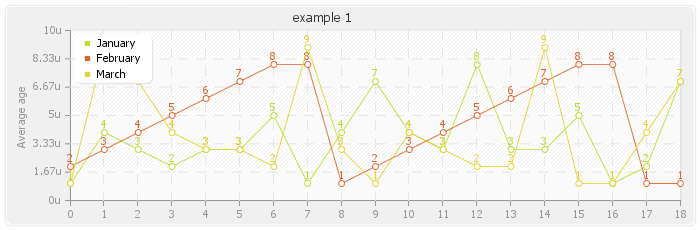
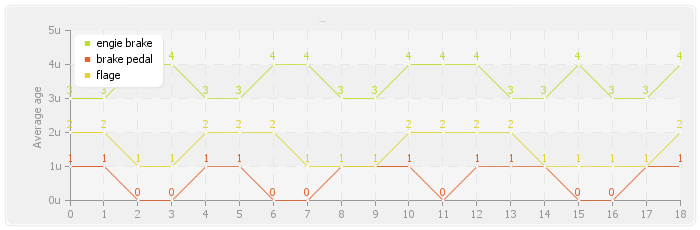
GD库学习

diff --git a/pchart/Example1.php b/pchart/Example1.php
@@ -8,42 +8,51 @@
  include("pChart/pChart.class.php");   
  // Dataset definition    数据填入
  $DataSet = new pData;   
- $DataSet->AddPoint(array(1,4,3,2,3,3,5,1,4,7,4,3,8,3,3,5,1,2,7),"Serie1");//自己传入数据
- $DataSet->AddPoint(array(2,3,4,5,6,7,8,8,1,2,3,4,5,6,7,8,8,1,1),"Serie2");
- $DataSet->AddPoint(array(1,9,7,4,3,3,2,9,3,1,4,3,2,2,9,1,1,4,7),"Serie3");
+ $DataSet->AddPoint(array(3,3,4,4,3,3,4,4,3,3,4,4,4,3,3,4,3,3,4),"Serie1");//自己传入数据
+ $DataSet->AddPoint(array(1,1,0,0,1,1,0,0,1,1,1,0,1,1,1,0,0,1,1),"Serie2");
+ $DataSet->AddPoint(array(2,2,1,1,2,2,2,1,1,1,2,2,2,2,1,1,1,1,2),"Serie3");
  //$DataSet->ImportFromCSV("Sample/bulkdata.csv",",",array(1,2,3),FALSE,0); //从csv导入数据
  $DataSet->AddAllSeries();   
  $DataSet->SetAbsciseLabelSerie();   
- $DataSet->SetSerieName("January","Serie1");   //设置图例
- $DataSet->SetSerieName("February","Serie2");   
- $DataSet->SetSerieName("March","Serie3");   
+ $DataSet->SetSerieName("engie brake","Serie1");   //设置图例
+ $DataSet->SetSerieName("brake pedal","Serie2");   
+ $DataSet->SetSerieName("flage","Serie3");   
  $DataSet->SetYAxisName("Average age"); 
  $DataSet->SetYAxisUnit("u");#设置单位
 
+
  // Initialise the graph   图片生成
  $Test = new pChart(700,230);
+ $VMin=0;
+ $VMax=5;
+ $Divisions=5;
+ $VXMin=0;
+ $VXMin=10;
+ $XDivisions=10;
+ $Test->setFixedScale($VMin,$VMax,$Divisions,$VXMin,$VXMin,$XDivisions);
  $Test->setFontProperties("Fonts/tahoma.ttf",8);   //字体  
  $Test->setGraphArea(70,30,680,200); //表格大小  距左 距顶 表格宽 表格高  
  $Test->drawFilledRoundedRectangle(7,7,693,223,5,240,240,240);   //整体背景色   距左 距顶 宽度 高度 圆角 颜色的三个参数
  $Test->drawRoundedRectangle(5,5,695,225,5,230,230,230);   //边框 距左 距顶 宽度 高度 颜色参数
- $Test->drawGraphArea(255,255,255,TRUE); //表格内颜色
+ #$Test->drawGraphArea(255,255,255,TRUE); //表格内颜色
  $Test->drawScale($DataSet->GetData(),$DataSet->GetDataDescription(),SCALE_NORMAL,150,150,150,TRUE,0,2);   
  $Test->drawGrid(9,TRUE,230,230,230,50);
  $Test->writeValues($DataSet->GetData(),$DataSet->GetDataDescription(),"Serie1");//在曲线上设定显示 数值 
  $Test->writeValues($DataSet->GetData(),$DataSet->GetDataDescription(),"Serie2");//在曲线上设定显示 数值 
  $Test->writeValues($DataSet->GetData(),$DataSet->GetDataDescription(),"Serie3");//在曲线上设定显示 数值 
+
  // Draw the 0 line   
  $Test->setFontProperties("Fonts/tahoma.ttf",6);   
  $Test->drawTreshold(0,143,55,72,TRUE,TRUE);   
   
  // Draw the line graph
- $Test->drawLineGraph($DataSet->GetData(),$DataSet->GetDataDescription());   
- $Test->drawPlotGraph($DataSet->GetData(),$DataSet->GetDataDescription(),3,2,255,255,255);   
+ $Test->drawLineGraph($DataSet->GetData(),$DataSet->GetDataDescription());   #画直线
+ $Test->drawPlotGraph($DataSet->GetData(),$DataSet->GetDataDescription(),1,1,255,255,255);  #设置点的大小
   
  // Finish the graph   
  $Test->setFontProperties("Fonts/tahoma.ttf",8);   
  $Test->drawLegend(75,35,$DataSet->GetDataDescription(),255,255,255);   
- $Test->setFontProperties("Fonts/tahoma.ttf",10);   
+ $Test->setFontProperties("Fonts/tahoma.ttf",1);   
  $Test->drawTitle(60,22,"example 1",50,50,50,585);   //标题 距左 距顶  文字  颜色
  $Test->Render("example1.png");
  echo "<img src='example1.png'>";

diff --git a/Design Patterns/message.php b/Design Patterns/message.php
@@ -1,0 +1,96 @@
+<?php
+
+#移动并写入新记录
+function move($a,$time){
+    $a[2]=$a[1];
+    $a[1]=$a[0];
+    $a[0]=$time;
+    return $a;
+}
+#踏板状态返回
+function flag($file){
+    $time=time();
+    #读取文件内容
+    $a=read_file($file);
+    if (!empty($a[2])&&$time-$a[2]<60) {
+        return true;#如果有三条记录,并且最后一条记录在60秒以内
+    }else{
+        return false;#没有三条记录,或者最后一条记录在60秒以外
+    }
+}
+#读文件
+function read_file($file){
+    #打开文件
+    $f=fopen($file, 'r');
+    #读取一行
+    $str=fread($f,255);
+    #关闭文件
+    fclose($f);
+    #将字符转为数组
+    $a=explode(';', $str);
+    if (empty($a[0])) {
+        $a=array(1,1,1);
+    }
+    #返回数组
+    return $a;
+}
+#写文件
+function write_file($file,$a){
+    #打开文件
+    $f=fopen($file,'w');
+    #将数组转为字符串
+    $str=implode(';',$a);
+    #将字符串写入文件
+    fwrite($f,$str);
+    #关闭文件
+    fclose($f);
+}
+
+
+#踏板监听调用程序
+function push($new,$file){
+    #如果是高位信号
+    if ($new==1) {
+        #读取原来的数据
+        $a=read_file($file);
+        #移动数据,将新的数据写回数据
+        $a=move($a,time());
+        #写文件记录
+        write_file($file,$a);
+    }
+    #写log
+   
+}
+#发动机监听调用程序
+function fdj($message,$file){
+    #当发动机是高位的时候
+    if ($message==1) {
+        #获取踏板状态
+        $flag=flag($file);
+        #踏板在60秒内有3个高位信号
+        if ($flag==true) {
+            return 1;
+        }else{
+            return 0;
+        }
+    }else{
+        return 0;
+    }
+}
+$i=0;
+while ($i<10) {
+    $file='./tmp.txt';
+    sleep(1);
+   /* if ($i==0) {
+        echo 
+    }*/
+    $fdj=rand(0,1);
+    $tb=rand(0,1);
+    push($tb,$file);
+    $tmp=fdj($fdj,$file);
+    $t_f=$fdj==1?'  |':'|  ';
+    $t_t=$tb==1?'  |':'|  ';
+    $t_flag=$tmp==1?'  |':'|  ';
+    echo $i.$t_f,$t_t,$t_flag."\n";
+    $i++;
+}

diff --git a/work/gd.php b/work/gd.php
@@ -1,0 +1,40 @@
+<?php
+function imagelinethick($image, $x1, $y1, $x2, $y2, $color, $thick = 1){
+        /* 下面两行只在线段直角相交时好使
+        imagesetthickness($image, $thick);
+        return imageline($image, $x1, $y1, $x2, $y2, $color);
+        */
+        if ($thick == 1) {
+            return imageline($image, $x1, $y1, $x2, $y2, $color);
+        }
+        $t = $thick / 2 - 0.5;
+        if ($x1 == $x2 || $y1 == $y2) {
+            return imagefilledrectangle($image, round(min($x1, $x2) - $t), round(min($y1, $y2) - $t), round(max($x1, $x2) + $t), round(max($y1, $y2) + $t), $color);
+        }
+        $k = ($y2 - $y1) / ($x2 - $x1); //y = kx + q
+        $a = $t / sqrt(1 + pow($k, 2));
+        $points = array(
+            round($x1 - (1+$k)*$a), round($y1 + (1-$k)*$a),
+            round($x1 - (1-$k)*$a), round($y1 - (1+$k)*$a),
+            round($x2 + (1+$k)*$a), round($y2 - (1-$k)*$a),
+            round($x2 + (1-$k)*$a), round($y2 + (1+$k)*$a),
+        );
+        imagefilledpolygon($image, $points, 4, $color);
+        imagepolygon($image, $points, 4, $color);
+    }
+    // 创建画布
+    $width = 200;   // 规定画布的宽高
+    $height = 100;
+    $image = imagecreate(400, 400);
+    // 背景设为红色
+    #$background = imagecolorallocate($im, 255, 0, 0);
+    #$image = imagecreatetruecolor($width, $height);  // 创建一幅真彩色图像
+    imagecolorallocate($image, 111, 111, 111);
+    imagelinethick($image,10,10,20,10,255,0);
+    imagelinethick($image,20,10,20,30,255,0);
+    imagelinethick($image,20,30,30,30,255,0);
+    imagelinethick($image,30,30,40,30,255,0);
+    imagejpeg($image, 'simpletext.jpg');
+    // 释放图像资源
+    imagedestroy($image);
+    

diff --git a/pchart/pChart/pData.class.php b/pchart/pChart/pData.class.php
@@ -24,13 +24,13 @@
      Data populating methods :
       ImportFromCSV($FileName,$Delimiter=",",$DataColumns=-1,$HasHeader=FALSE,$DataName=-1)
       AddPoint($Value,$Serie="Serie1",$Description="")
-     Series manipulation methods :
+    Series manipulation methods :
       AddSerie($SerieName="Serie1")
       AddAllSeries()
       RemoveSerie($SerieName="Serie1")
       SetAbsciseLabelSerie($SerieName = "Name")
       SetSerieName($Name,$SerieName="Serie1")
-  +   SetSerieSymbol($Name,$Symbol)
+      SetSerieSymbol($Name,$Symbol)
       SetXAxisName($Name="X Axis")
       SetYAxisName($Name="Y Axis")
       SetXAxisFormat($Format="number")
@@ -39,7 +39,7 @@
       SetYAxisUnit($Unit="")
       removeSerieName($SerieName)
       removeAllSeries()
-     Data retrieval methods :
+    Data retrieval methods :
       GetData()
       GetDataDescription()
  */

diff --git a/pchart/Example10.php b/pchart/Example10.php
@@ -29,7 +29,7 @@
  // Write the title
  $Test->setFontProperties("Fonts/MankSans.ttf",10);
  $Test->drawTitle(10,20,"Sales per month",100,100,100);
- $filename=basename(__FILE__).'png';
+ $filename=basename(__FILE__).'.png';
  $Test->Render($filename);
  echo "<img src='{$filename}'>";
 ?>

diff --git a/pchart/Example11.php b/pchart/Example11.php
@@ -46,5 +46,5 @@
 
  // Render the graph
  $Cache->WriteToCache("Graph1",$DataSet->GetData(),$Test);
- $Test->Render("example1.png");
+ $Test->Render("example11.png");
 ?>
